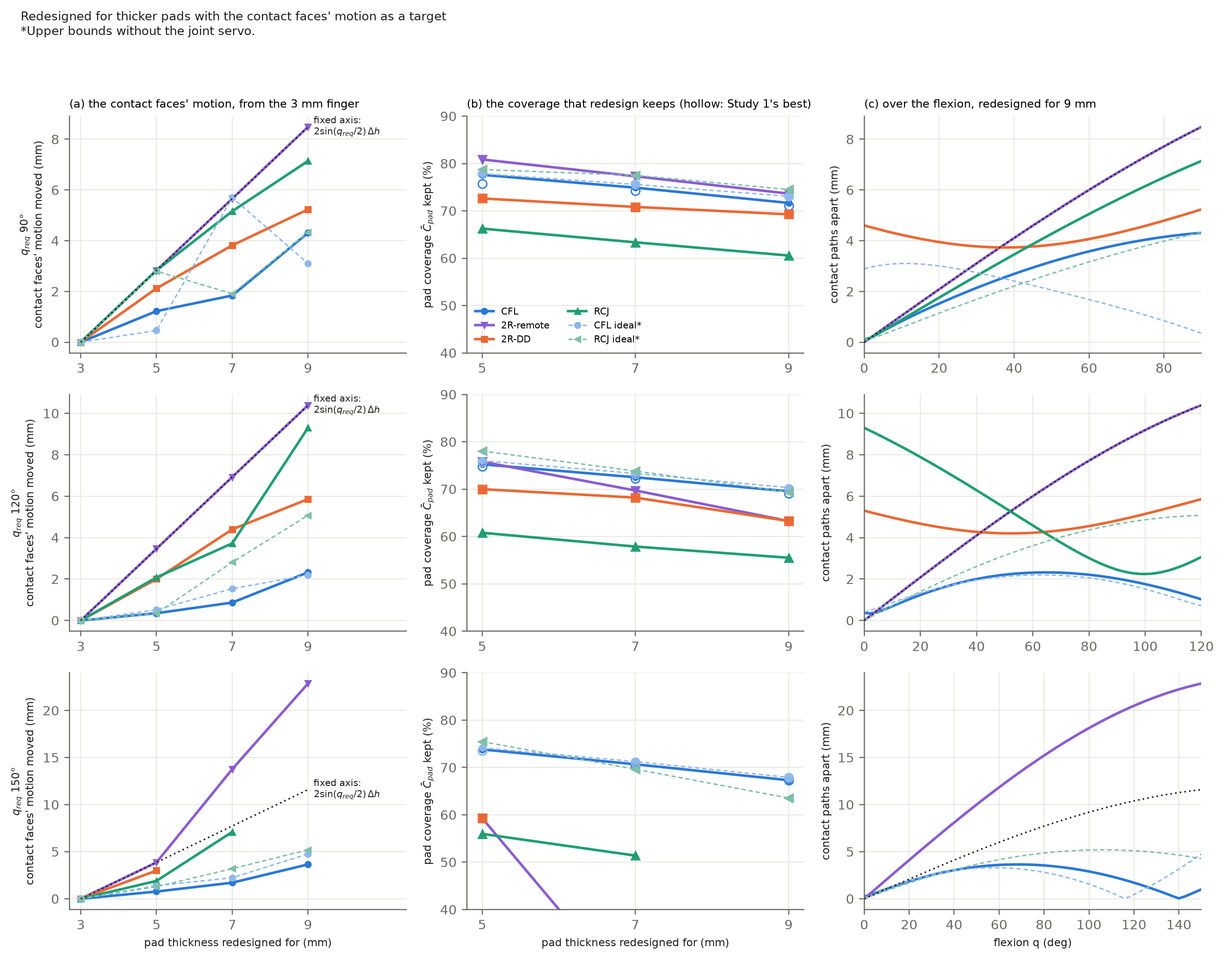
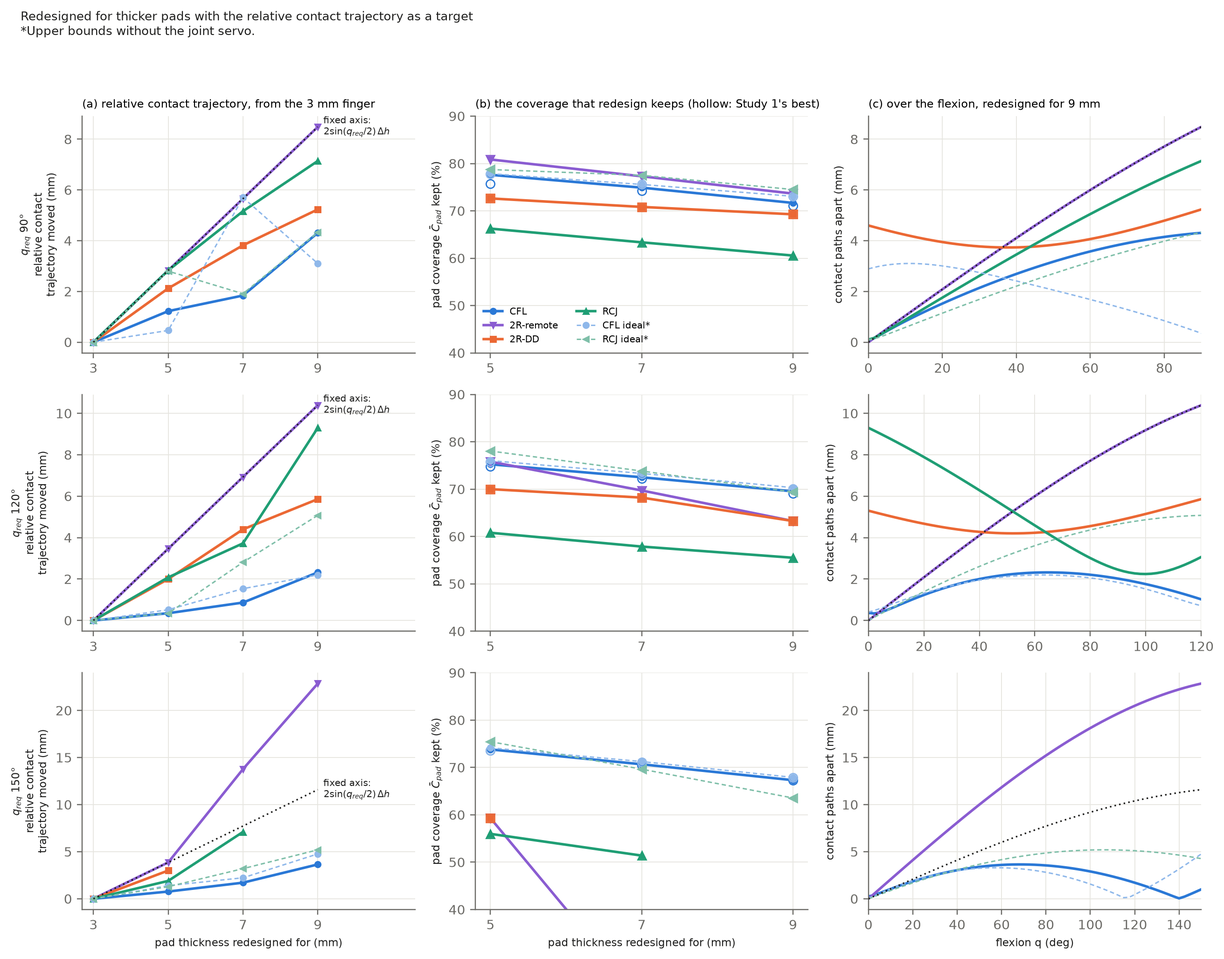
Call D_c's quantity the relative contact trajectory
"Contact-centric kinematics" promised the whole servo-to-contact map, while D_c measures only
the path of the distal contact face seen from the proximal one, over flexion. The new term names
that path; the transmission from servo angle to flexion is stated as excluded and recorded apart.
The SSoT, the Study 2 report and figure, and the docstrings use it; module names stay.

diff --git a/design/scripts/study/study2_morphology_adaptation/figure_redesign.py b/design/scripts/study/study2_morphology_adaptation/figure_redesign.py
@@ -5,7 +5,7 @@
 
 ``study2_redesign_<tag>.png``, one row per required flexion:
 
-- left: how far the contact faces' motion moves when the finger is redesigned
+- left: how far the relative contact trajectory moves when the finger is redesigned
   from 3 mm pads for thicker ones, at the most pad coverage the redesign keeps
   (the front's coverage end), per architecture; the line is what a joint
   turning about a fixed axis must show, ``2 sin(q_req/2) dh``;
@@ -89,7 +89,7 @@ def figure(out: Path, tag: str) -> Path | None:
                    lw=1.1, ls=(0, (1, 2)), zorder=6)
         along.set_ylabel("contact paths apart (mm)", fontsize=7.5)
         along.set_xlim(0, q)
-        change.set_ylabel(f"$q_{{req}}$ {q:g}°\ncontact faces' motion moved (mm)", fontsize=7.5)
+        change.set_ylabel(f"$q_{{req}}$ {q:g}°\nrelative contact\ntrajectory moved (mm)", fontsize=7.5)
         kept.set_ylabel("pad coverage $\\bar C_{pad}$ kept (%)", fontsize=7.5)
         kept.set_ylim(40, 90)
         change.set_xlim(start - 0.3, thick[-1] + 2.6)
@@ -102,11 +102,11 @@ def figure(out: Path, tag: str) -> Path | None:
             if a == len(flexions) - 1:
                 axis.set_xlabel("flexion q (deg)" if axis is along else "pad thickness redesigned for (mm)", fontsize=7.5)
         if a == 0:
-            change.set_title("(a) the contact faces' motion, from the 3 mm finger", fontsize=8, loc="left")
+            change.set_title("(a) relative contact trajectory, from the 3 mm finger", fontsize=8, loc="left")
             kept.set_title("(b) the coverage that redesign keeps (hollow: Study 1's best)", fontsize=8, loc="left")
             kept.legend(fontsize=6.5, frameon=False, ncol=2, loc="lower left")
             along.set_title(f"(c) over the flexion, redesigned for {thick[-1]:g} mm", fontsize=8, loc="left")
-    fig.suptitle("Redesigned for thicker pads with the contact faces' motion as a target\n"
+    fig.suptitle("Redesigned for thicker pads with the relative contact trajectory as a target\n"
                  "*Upper bounds without the joint servo.", fontsize=8.5, color=INK, x=0.02, ha="left", y=1.0,
                  va="bottom")
     fig.tight_layout()

diff --git a/design/core/optimization/analysis/contact_kinematics.py b/design/core/optimization/analysis/contact_kinematics.py
@@ -1,8 +1,9 @@
 """Study 2 (problem formulation A.6.3): a finger redesigned for a thicker
-interface with the contact-centric kinematics as its target.
+interface with the relative contact trajectory as its target.
 
-The contact-centric kinematics of a finger is the motion of its distal contact
-face seen from its proximal contact face. The faces turn against each other by
+The relative contact trajectory of a finger is the path of its distal contact
+face seen from its proximal contact face, as a function of the flexion (not of
+time; the transmission from servo to flexion is not part of it). The faces turn against each other by
 the flexion ``q`` whatever the design, so the path of one point of the distal
 face, taken in the proximal face's frame, is the whole of it
 (:func:`contact_path`). A redesign is searched in the mechanism's own search

diff --git a/design/scripts/study/study2_morphology_adaptation/redesign.py b/design/scripts/study/study2_morphology_adaptation/redesign.py
@@ -1,5 +1,5 @@
 #!/usr/bin/env python3
-"""Study 2: a finger redesigned for a thicker interface, its contact-centric kinematics kept (A.6.3).
+"""Study 2: a finger redesigned for a thicker interface, its relative contact trajectory kept (A.6.3).
 
     python scripts/study/study2_morphology_adaptation/redesign.py [one_finger.yaml] [--resume]
         [--architectures cfl,2r_remote] [--flexions 120] [--output dir]

diff --git a/design/tests/test_study2_contact_kinematics.py b/design/tests/test_study2_contact_kinematics.py
@@ -1,4 +1,4 @@
-"""Study 2: a redesign with the contact-centric kinematics as its target (problem formulation A.6.3)."""
+"""Study 2: a redesign with the relative contact trajectory as its target (problem formulation A.6.3)."""
 
 from __future__ import annotations
 

diff --git a/design/SSoT/problem_formulation.md b/design/SSoT/problem_formulation.md
@@ -395,7 +395,7 @@ $\mathcal F_{\mathrm{static}}$과 $\mathcal F_{\mathrm{motion}}$은 형상 $\mat
 | 관절이 contact interface에서 빼앗는 것을 정하는 관계 | Study 0 (해석) | A.6.0 |
 | 1. 구조가 contact interface를 제한한다 | 구조별 native 설계의 비교, Study 1 | A.6.1, A.6.2 |
 | 2. Interface의 두께와 요구 flexion에 따라 구조가 확보하는 접촉면이 다르다 | Study 1 | A.6.2 |
-| 3. Interface가 두꺼워져도 접촉면의 운동을 지키도록 다시 설계할 수 있는지가 구조마다 다르다 | Study 2 | A.6.3 |
+| 3. Interface가 두꺼워져도 relative contact trajectory를 지키도록 다시 설계할 수 있는지가 구조마다 다르다 | Study 2 | A.6.3 |
 
 ### A.6.0. Study 0: 관절이 pad에서 빼앗는 길이 (해석)
 
@@ -433,13 +433,13 @@ $$
 
 이다. 분모의 둘째 항은 관절 간격이 굽히면 짧아지는 것이고, 셋째 항은 pole이 palmar 쪽에 있으면 두 phalanx 끝이 벌어지는 것이다. 필요한 것보다 깊은 pole($z>t$)은 $G$를 줄이지 못하고 분모만 키운다. 이 조건 밖의 설계에서는 $X$, 덮는 거리, 굽힌 윤곽을 pole과 pad의 치수로 직접 계산한다.
 
-**명제 4 (접촉면에서 본 운동).** Contact face를 기준으로 본 pole의 위치(두 성분 모두)를 $\mathbf p(q)$라 하면, contact face 위의 점은 $\mathbf c(q)=\mathbf p+R_q(\mathbf c_0-\mathbf p)$로 움직인다. 두 손가락의 pole이 contact face에 대해 $\Delta\mathbf p(q)$만큼 다르면
+**명제 4 (relative contact trajectory).** Contact face를 기준으로 본 pole의 위치(두 성분 모두)를 $\mathbf p(q)$라 하면, contact face 위의 점은 $\mathbf c(q)=\mathbf p+R_q(\mathbf c_0-\mathbf p)$로 움직인다. 두 손가락의 pole이 contact face에 대해 $\Delta\mathbf p(q)$만큼 다르면
 
 $$
 \boxed{\;\|\Delta\mathbf c(q)\|=2\sin\frac{q}{2}\,\|\Delta\mathbf p(q)\|\;}
 $$
 
-이다. 기준 자세에서 두 contact face의 상대 위치가 같을 때, 접촉면에서 본 운동이 같을 필요충분조건은 $\mathbf p(q)$가 모든 $q$에서 같은 것이다(깊이 $\tau$만이 아니라 pole의 $x$ 좌표도). 그때 같은 pad를 같은 자리에 그대로 실을 수 있다(명제 1의 $m(q)$가 같다).
+이다. 기준 자세에서 두 contact face의 상대 위치가 같을 때, relative contact trajectory가 같을 필요충분조건은 $\mathbf p(q)$가 모든 $q$에서 같은 것이다(깊이 $\tau$만이 아니라 pole의 $x$ 좌표도). 그때 같은 pad를 같은 자리에 그대로 실을 수 있다(명제 1의 $m(q)$가 같다).
 
 **구조는 $z(q)$, $P_x(q)$, $d$로 들어간다.**
 
@@ -457,7 +457,7 @@ $$
 - H1 (경험적 가설). Coverage를 최대화한 설계에서는 pad끼리의 접촉이 자주 활성 제약이다: 설계의 pad로 계산한 $\min_q m(q)$가 0에 가깝다. 정리가 아니다. Actuator의 자리, pad 길이의 하한, 다른 제약이 먼저 걸리면 틈이 남는다. 성립한 설계의 수와 벗어난 설계를 보고한다. 대칭 법칙은 그 설계의 $G$에 대한 추정으로 함께 보고한다.
 - P2 (계산의 일치). 최적 설계의 $\bar C_{\mathrm{pad}}$는 pole의 경로, pad의 치수, phalanx 구조의 끝, 기준 자세의 distal link 선으로 직접 계산한 값과 같다(명제 3).
 - P3. 고정 축에서 두 pad가 고르게 놓인 설계는 $G=2(d+h)\tan(q_{\mathrm{req}}/2)$를 따른다. 요구 flexion과 두께가 커지면 pad 길이가 이 식대로 줄어든다. $q^\ast<q_{\mathrm{req}}$인 설계에서는 $G_{\mathrm{sym}}$이 $q_{\mathrm{req}}$에 따라 커지지 않는다.
-- P4. 두 pad의 깊이가 같은 고정 축 손가락을 contact face가 축에서 $\delta=\Delta h-\Delta d$만큼 멀어지도록 다시 설계하면($\Delta d$: 장착 깊이를 줄인 양), 접촉면에서 본 운동은 $2\sin(q_{\mathrm{req}}/2)\,|\delta|$ 이상 바뀐다. 등호는 축이 contact face에 대해 $x$ 방향으로 움직이지 않을 때이다. 이것은 어떤 다시 설계로도 넘을 수 없는 하한이고, $r$이 고정된 구름 접촉에서도 같은 형태이다. Pole을 옮겨 $\mathbf p(q)$를 유지하는 구조는 접촉면에서 본 운동과 pad를 함께 유지한다(명제 4).
+- P4. 두 pad의 깊이가 같은 고정 축 손가락을 contact face가 축에서 $\delta=\Delta h-\Delta d$만큼 멀어지도록 다시 설계하면($\Delta d$: 장착 깊이를 줄인 양), relative contact trajectory는 $2\sin(q_{\mathrm{req}}/2)\,|\delta|$ 이상 바뀐다. 등호는 축이 contact face에 대해 $x$ 방향으로 움직이지 않을 때이다. 이것은 어떤 다시 설계로도 넘을 수 없는 하한이고, $r$이 고정된 구름 접촉에서도 같은 형태이다. Pole을 옮겨 $\mathbf p(q)$를 유지하는 구조는 relative contact trajectory와 pad를 함께 유지한다(명제 4).
 - 이 모델에서 가장 좋은 관절은 contact face 위의 점을 중심으로 도는 관절이다($\tau=0$, $G=0$).
 
 ### A.6.1. 공통 설정
@@ -535,13 +535,13 @@ $$
 
 2026-11-20까지 Study 1은 native 설계에 module 목록 $\mathcal C_{\mathrm{cat}}$을 이 규칙으로 달아 수용 여부를 세는 실험이었다(`report/study1/`). 그 결과는 보조 자료로 남긴다.
 
-### A.6.3. Study 2: interface가 바뀌어도 접촉면의 운동을 지킬 수 있는가
+### A.6.3. Study 2: interface가 바뀌어도 relative contact trajectory를 지킬 수 있는가
 
-Study 1은 접촉면을 얼마나 확보하는가를 묻고, Study 2는 그 접촉면의 운동을 묻는다. 더 두꺼운 contact interface를 쓰려고 손가락을 다시 설계할 때, 접촉면에서 본 운동(contact-centric kinematics)을 기존 손가락과 같게 유지할 수 있는가, 그리고 그때 coverage는 얼마나 남는가. Contact interface를 독립 변수로 다루려면 접촉이 일어나는 면의 운동이 유지되어야 하고, 뼈대의 운동은 그 수단이다. 이 실험에서는 접촉면의 운동이 처음으로 설계의 목표가 된다. Study 0의 P4가 결과를 예측한다.
+Study 1은 접촉면을 얼마나 확보하는가를 묻고, Study 2는 그 접촉면이 서로에 대해 어떻게 움직이는지, 곧 relative contact trajectory를 묻는다. 더 두꺼운 contact interface를 쓰려고 손가락을 다시 설계할 때, relative contact trajectory를 기존 손가락과 같게 유지할 수 있는가, 그리고 그때 coverage는 얼마나 남는가. Contact interface를 독립 변수로 다루려면 접촉이 일어나는 면의 운동이 유지되어야 하고, 뼈대의 운동은 그 수단이다. 이 실험에서는 relative contact trajectory가 처음으로 설계의 목표가 된다. Study 0의 P4가 결과를 예측한다.
 
 **기준 손가락과 새 interface.** 구조 $K$와 요구 flexion $q_{\mathrm{req}}$마다, Study 1에서 가장 얇은 두께 $h_0$에 최적화한 설계 $M_0=M^\star_K(h_0)$를 기준 손가락으로 둔다(본 실험 $h_0=3$ mm). 새 interface는 Study 1의 격자에서 더 두꺼운 두께 $h>h_0$이다. 얇은 쪽으로 바꾸는 경우는 다루지 않는다. 기존 손가락에 그대로 달 수 있어 다시 설계할 이유가 없기 때문이다.
 
-**접촉면에서 본 운동의 변화.** Proximal contact face의 직선을 기준으로, distal contact face 위의 손끝 아래 점 $\mathbf c(M,q)$의 경로를 잰다. 두 face는 어느 설계에서나 $q$만큼 돌므로, 한 점의 경로가 face의 자세를 정한다.
+**Relative contact trajectory와 그 변화.** Proximal contact face의 직선을 기준으로 잰, distal contact face 위의 손끝 아래 점 $\mathbf c(M,q)$의 경로를 relative contact trajectory라 한다. 두 face는 어느 설계에서나 $q$만큼 돌므로, 한 점의 경로가 face의 자세를 정한다. 이 경로는 flexion $q$로 매개화되며 시간의 함수가 아니다. Servo 각에서 $q$로 가는 전달(속도와 MA)은 포함하지 않는다. 그것은 mechanism마다 다르며 재설계로 바뀔 수 있고, 따로 기록한다.
 
 $$
 D_c(M,M_0)=\frac{1}{L_f}\max_{q\in[0,\,q_{\mathrm{req}}]}\big\|\mathbf c(M,q)-\mathbf c(M_0,q)\big\|
@@ -560,14 +560,14 @@ $$
 $$
 
 - 탐색 공간, 제약, 장착 규칙은 Study 1과 같다(가장 얕은 깊이, spacer 없음). 목적함수의 coverage도 Study 1의 원기둥 기준 $\bar C_{\mathrm{pad}}$ 그대로이다.
-- Coverage의 하한은 두지 않는다. 결과는 front이며, 접촉면의 운동을 얼마나 지키면 coverage가 얼마나 남는지를 그대로 보인다.
+- Coverage의 하한은 두지 않는다. 결과는 front이며, relative contact trajectory를 얼마나 지키면 coverage가 얼마나 남는지를 그대로 보인다.
 - Study 1의 설계 $M^\star_K(h)$는 이 탐색의 초기해이므로 front의 coverage 쪽 끝은 $\bar C^\star_K(h)$보다 낮지 않다. 더 높게 나오면 Study 1의 탐색이 최적에 못 미친 것이므로 그 값을 함께 보고한다.
 
 **보고.** 구조, $q_{\mathrm{req}}$, 두께마다
 - front $\{(D_c,\bar C_{\mathrm{pad}})\}$;
 - 변화가 가장 작은 설계의 $D_c^{\min}$과 그 coverage, coverage가 가장 높은 설계의 coverage와 그 $D_c$;
 - 고정 축의 하한 $2\sin(q_{\mathrm{req}}/2)\,(h-h_0)/L_f$ (A.6.0 P4);
-- Study 1의 설계 $M^\star_K(h)$의 $D_c$(접촉면의 운동을 목표로 주지 않았을 때의 값);
+- Study 1의 설계 $M^\star_K(h)$의 $D_c$(relative contact trajectory를 목표로 주지 않았을 때의 값);
 - 뼈대의 변화 $D_s$, pad 길이, $q_{\max}$, $MA_{\mathrm{wc}}$.
 
 결과는 seed를 바꿔 반복해 front를 합친다.
@@ -575,9 +575,9 @@ $$
 **확인하는 것 (P4).**
 - 고정 축(2R-remote)은 어떤 다시 설계로도 $D_c$가 하한보다 작아지지 않는다. Front는 그 하한의 한 점으로 모인다.
 - 2R-DD와 RCJ는 장착 깊이를 줄인 만큼만 하한보다 작다.
-- CFL은 하한보다 훨씬 작은 $D_c$로 다시 설계되며, 그때 coverage는 $\bar C^\star_K(h)$에 가깝다(접촉면에서 본 운동을 지키는 것과 pad 길이를 지키는 것은 같은 조건이므로). 두께가 늘면서 이것이 어디까지 성립하는지가 결과이다.
+- CFL은 하한보다 훨씬 작은 $D_c$로 다시 설계되며, 그때 coverage는 $\bar C^\star_K(h)$에 가깝다(relative contact trajectory를 지키는 것과 pad 길이를 지키는 것은 같은 조건이므로). 두께가 늘면서 이것이 어디까지 성립하는지가 결과이다.
 
-**해석.** $D_c^{\min}$이 작고 그때의 coverage가 높은 구조는, interface가 두꺼워져도 접촉면의 운동과 접촉면의 양을 함께 지키도록 다시 설계할 수 있다. 이때 바뀌는 것은 mechanism 내부와 뼈대의 운동 $D_s$이다. Front가 하한의 한 점에 모이는 구조는 interface가 두꺼워지면 접촉면의 운동이 반드시 바뀐다. 해를 찾지 못했다는 것은 주어진 탐색 범위와 예산 안에서 찾지 못했다는 뜻이며, $D_c^{\min}$은 찾은 값이지 증명된 최솟값이 아니다. 이 결과는 2차원 측면 모델, 두 pad의 두께가 같은 경우, 장착 규칙(spacer 없음) 안에서의 비교이다. Contact face의 위치를 기준으로 두고 얇은 pad를 그만큼 깊이 달면 어느 구조에서나 접촉면에서 본 운동이 유지되지만, 그 경우 손가락은 가장 두꺼운 interface에 맞춰 미리 설계해야 한다. 이 방식은 다루지 않는다.
+**해석.** $D_c^{\min}$이 작고 그때의 coverage가 높은 구조는, interface가 두꺼워져도 relative contact trajectory와 접촉면의 양을 함께 지키도록 다시 설계할 수 있다. 이때 바뀌는 것은 mechanism 내부와 뼈대의 운동 $D_s$이다. Front가 하한의 한 점에 모이는 구조는 interface가 두꺼워지면 relative contact trajectory가 반드시 바뀐다. 해를 찾지 못했다는 것은 주어진 탐색 범위와 예산 안에서 찾지 못했다는 뜻이며, $D_c^{\min}$은 찾은 값이지 증명된 최솟값이 아니다. 이 결과는 2차원 측면 모델, 두 pad의 두께가 같은 경우, 장착 규칙(spacer 없음) 안에서의 비교이다. Contact face의 위치를 기준으로 두고 얇은 pad를 그만큼 깊이 달면 어느 구조에서나 relative contact trajectory가 유지되지만, 그 경우 손가락은 가장 두꺼운 interface에 맞춰 미리 설계해야 한다. 이 방식은 다루지 않는다.
 
 ### A.6.4. Study에서 다루지 않는 것
 
@@ -631,7 +631,7 @@ $$
 | $G$, $G_{\mathrm{sym}}$, $q^\ast$ | 관절 간격(기준 자세에서 두 pad의 관절 쪽 끝 사이 길이), 대칭 clearance 법칙이 주는 값, 그것을 정하는 임계 flexion |
 | $m(q)$ | 자세 $q$에서 두 pad의 정확한 clearance: 분리축에서의 틈의 최댓값(0: 맞닿음, 음수: 겹침) (Study 0, 명제 1) |
 | $\mathbf p(q)$, $\mathbf c(M,q)$ | Contact face를 기준으로 본 pole의 위치, proximal contact face를 기준으로 본 distal contact face 위의 점의 경로 |
-| $D_c(M,M')$, $D_s(M,M')$ | 두 손가락의 접촉면에서 본 운동의 차이, 뼈대(손끝) 운동의 차이. $[0,q_{\mathrm{req}}]$에서의 최대 거리를 $L_f$로 나눔 (Study 2) |
+| $D_c(M,M')$, $D_s(M,M')$ | 두 손가락의 relative contact trajectory의 차이, 뼈대(손끝) 운동의 차이. $[0,q_{\mathrm{req}}]$에서의 최대 거리를 $L_f$로 나눔 (Study 2) |
 | $M_0$, $h_0$, $D_c^{\min}$ | Study 2의 기준 손가락(가장 얇은 두께 $h_0$의 Study 1 설계)과, 더 두꺼운 두께에서 다시 설계해 찾은 가장 작은 $D_c$ |
 
 **Optimization.** 요구사항, 허용 범위, 목적함수와 제약.

diff --git a/design/SSoT/research-objective.md b/design/SSoT/research-objective.md
@@ -170,13 +170,13 @@ CoDe aims to enable contact-interface variation while preserving the underlying 
 
 For controlled contact-interface experiments, the following should remain fixed whenever possible:
 
-- The contact-centric kinematics: the motion of one contact face seen from the other over the flexion. This is the kinematic target of a contact-centric hand; what a policy and an object meet is the contact face, not the skeleton.
+- The relative contact trajectory: the path of the distal contact face seen from the proximal one, as a function of flexion (its change is D_c, `problem_formulation.md` A.6.3). It excludes the transmission from servo angle to flexion, which is recorded separately. This is the kinematic target of a contact-centric hand; what a policy and an object meet is the contact face, not the skeleton.
 - Structural finger morphology and link geometry.
 - Articulation kinematics and joint configuration.
 - Actuator placement and transmission architecture.
 - Contact-module mounting references.
 
-When these cannot all be kept (an interface thicker than the finger was designed for asks for a redesign), the contact-centric kinematics has priority over the skeleton's: the mechanism's internal dimensions may change to keep the contact faces moving as before (`problem_formulation.md` A.6.0, A.6.3).
+When these cannot all be kept (an interface thicker than the finger was designed for asks for a redesign), the relative contact trajectory has priority over the skeleton's: the mechanism's internal dimensions may change to keep the contact faces moving as before (`problem_formulation.md` A.6.0, A.6.3).
 
 The following are intentionally variable:
 
@@ -185,7 +185,7 @@ The following are intentionally variable:
 - Tactile sensing configuration.
 - Contact location, distribution and surface response.
 
-Preserving the contact-centric kinematics does not imply preserving contact mechanics or actuator-side contact responses: compliance, friction, sensing and the contact's location on the face change with the interface, which is precisely what the platform is designed to investigate. What should not change with them is where the contact faces are and how they move. With identical rigid-body kinematics, a thicker interface moves the contact face away from the point the phalanx turns about and so changes the contact-point Jacobian; that change is an effect of the hand's geometry, not of the interface under study, and is what a redesign should remove.
+Preserving the relative contact trajectory does not imply preserving contact mechanics or actuator-side contact responses: compliance, friction, sensing and the contact's location on the face change with the interface, which is precisely what the platform is designed to investigate. What should not change with them is where the contact faces are and how they move. With identical rigid-body kinematics, a thicker interface moves the contact face away from the point the phalanx turns about and so changes the contact-point Jacobian; that change is an effect of the hand's geometry, not of the interface under study, and is what a redesign should remove.
 
 The objective is to isolate contact-interface variation from unnecessary changes to the underlying hand embodiment, not to make contact behavior invariant.
 
@@ -212,11 +212,11 @@ The project's experiments should provide evidence for the central research objec
 
 1. **Architecture limits the contact interface.** Under one set of requirements (the same finger size, actuators, required flexion and collision rules), each architecture's best design leaves a different share of the finger usable for contact, and the difference grows with the required flexion.
 2. **The contact surface an architecture keeps depends on the interface's thickness and the required flexion.** With the finger optimized for each pad thickness and each required flexion, the best pad coverage differs by architecture, and so does how fast it falls as the pads get thicker or the flexion deeper.
-3. **The contact faces' motion can be kept when the interface changes, with the contact surface kept too.** The motion of one contact face seen from the other is what an interface experiment should hold; the skeleton's motion is a means to it. When a finger is redesigned for a thicker interface with that motion as its target, a joint turning about a fixed axis cannot keep it, whatever the redesign (a closed-form lower bound); the CFL moves the point it turns about and keeps it, at a pad coverage near the best for that interface, within a range the study measures. This is the claim the project makes for CoDe.
+3. **The relative contact trajectory can be kept when the interface changes, with the contact surface kept too.** The relative contact trajectory is what an interface experiment should hold; the skeleton's motion is a means to it. When a finger is redesigned for a thicker interface with that motion as its target, a joint turning about a fixed axis cannot keep it, whatever the redesign (a closed-form lower bound); the CFL moves the point it turns about and keeps it, at a pad coverage near the best for that interface, within a range the study measures. This is the claim the project makes for CoDe.
 
 **What the learning-based studies must test** (supporting question 3; Section 8):
 
-4. **Keeping the contact faces' motion keeps an interface measurement interpretable** (hypothesis, Study 3C). If an interface experiment is run on a hand adapted to the interface in two ways, one that keeps the contact-centric kinematics (claim 3) and one that does not, the measured effect of the interface differs between them. Support: the effect measured on the unadapted path departs from the redesigned path's, and the departure grows with the change in contact-face motion. Refutation: the two paths measure the same effect within the stated precision, in which case keeping the contact faces' motion is not what an interface experiment needs, and that is reported.
+4. **Keeping the relative contact trajectory keeps an interface measurement interpretable** (hypothesis, Study 3C). If an interface experiment is run on a hand adapted to the interface in two ways, one that keeps the relative contact trajectory (claim 3) and one that does not, the measured effect of the interface differs between them. Support: the effect measured on the unadapted path departs from the redesigned path's, and the departure grows with the change in contact-face motion. Refutation: the two paths measure the same effect within the stated precision, in which case keeping the relative contact trajectory is not what an interface experiment needs, and that is reported.
 
 A geometric account (Study 0) gives the relation behind claims 1 to 3 (where the phalanx turns about, and how deep the pads sit, set what the joint takes from the pads); the optimization studies check its predictions.
 
@@ -307,7 +307,7 @@ The learning-based studies are numbered 3A–3D, the same names in this file, in
 
 Throughout, J(π, H, C, S) is the task's pre-registered performance metric (for the cube-rotation task, goals reached per episode on a fixed goal sequence) of policy π on hand H with interface C under contact model S; arguments that do not vary are dropped.
 
-**Roles and order.** Study 3C is the learning-based evidence specific to CoDe: it links the design studies' contact-centric kinematics (claims 3 and 4) to interface experiments. Study 3A changes only an interface that any hand could exchange (a profile inside the same pad envelope), so it demonstrates the experimental platform and pipeline, not the need for CoDe (Section 8.6). Study 3B checks that 3A's and 3C's interface effects are not artifacts of one contact model. Order: 3A, then 3C, then 3B on the policies of both, then 3D.
+**Roles and order.** Study 3C is the learning-based evidence specific to CoDe: it links the design studies' relative contact trajectory (claims 3 and 4) to interface experiments. Study 3A changes only an interface that any hand could exchange (a profile inside the same pad envelope), so it demonstrates the experimental platform and pipeline, not the need for CoDe (Section 8.6). Study 3B checks that 3A's and 3C's interface effects are not artifacts of one contact model. Order: 3A, then 3C, then 3B on the policies of both, then 3D.
 
 **Study 3A — Contact-interface A/B test and transfer matrix** (RQ3). Keep the CoDe embodiment fixed and evaluate multiple contact interfaces with a common manipulation protocol, in two complementary ways:
 
@@ -322,7 +322,7 @@ Measure performance differences, sensitivity, adaptation, generalization and con
 
 *Target evidence:* whether a measured interface effect survives a change of the simulated contact model.
 
-**Study 3C — Embodiment-dependent confounding of an interface effect** (RQ3, Section 2.3). Make the same interface change C₀ → C₁ (a thin interface to a thick one) along two morphology-adaptation paths: the redesigned path R keeps the contact-centric kinematics (CoDe, Study 2's redesign); the unadapted path U lets it change with the interface (the same finger with thicker interfaces, then a fixed-axis architecture at its own best redesign). With the same task and protocol, each path measures
+**Study 3C — Embodiment-dependent confounding of an interface effect** (RQ3, Section 2.3). Make the same interface change C₀ → C₁ (a thin interface to a thick one) along two morphology-adaptation paths: the redesigned path R keeps the relative contact trajectory (CoDe, Study 2's redesign); the unadapted path U lets it change with the interface (the same finger with thicker interfaces, then a fixed-axis architecture at its own best redesign). With the same task and protocol, each path measures
 
 ΔJ_R = J(H_R,1, C₁) − J(H_R,0, C₀),  ΔJ_U = J(H_U,1, C₁) − J(H_U,0, C₀),
 

diff --git a/design/SSoT/north-star.md b/design/SSoT/north-star.md
@@ -15,23 +15,27 @@ The SSoT has four files, each with one job. When they disagree, the higher one w
 
 RSS 2027 (Athens, July 6–11). Extended abstract due 2026-12-04, stage-1 decision 2027-02-05, final paper due 2027-04-16 (dates from the call for papers; re-check on roboticsconference.org before each deadline).
 
+## Terms
+
+**Relative contact trajectory:** the path of the distal contact face seen from the proximal contact face, as a function of flexion q (not of time). D_c is its largest change between two fingers over the required flexion, per finger length. It does not include the transmission from servo angle to flexion. (Replaced "contact-centric kinematics" on 2026-11-21, which promised the servo-to-contact map too.)
+
 ## Problem
 
 Contact is central to dexterous manipulation, and the contact interface (its geometry, size, compliance and sensing) sets that contact. Research hands use servos for maintainability, and the servo bodies take up the space inside the finger.
 
 - **P1 — Space.** Servos and joints compete with the contact interface for the same space, so a large or thick interface costs either range of motion or contact surface.
-- **P2 — Redesign.** Redesigning the finger for a different interface changes how its contact faces move relative to each other. For a joint turning about a fixed axis this cannot be avoided when the interface is moved to its own best depth: a thickness change Δh moves the faces' relative path by at least 2 sin(q/2)·Δh at flexion q.
+- **P2 — Redesign.** Redesigning the finger for a different interface changes its relative contact trajectory (the path of the distal contact face seen from the proximal one, as a function of flexion). For a joint turning about a fixed axis this cannot be avoided when the interface is moved to its own best depth: a thickness change Δh moves the relative contact trajectory by at least 2 sin(q/2)·Δh at flexion q.
 - **P3 — Measurement.** So when interfaces are compared in manipulation, the difference cannot be attributed to the interface alone: the hand's motion changed with it.
 
 ## Goal
 
-A servo-driven finger that, as the interface's size changes, keeps range of motion and contact surface together (P1) and changes its contact faces' relative path little when re-optimized (P2), so that the contact interface can be used as an independent variable in manipulation research (P3).
+A servo-driven finger that, as the interface's size changes, keeps range of motion and contact surface together (P1) and changes its relative contact trajectory little when re-optimized (P2), so that the contact interface can be used as an independent variable in manipulation research (P3).
 
 ## Approach (CoDe)
 
 - **Remote actuation:** the servo leaves the joint and drives it through a linkage. → P1
 - **Polycentric articulation (the CFL):** the point the distal phalanx turns about moves with flexion. → P1, P2
-- **The contact faces' relative path as the redesign target**, measured by D_c (`problem_formulation.md` A.6.3). → P2, P3
+- **The relative contact trajectory as the redesign target**, its change measured by D_c (`problem_formulation.md` A.6.3). → P2, P3
 
 ## Contributions and status
 
@@ -39,22 +43,21 @@ A contribution is a claim to be tested, not a result to be secured (`research-ob
 
 | | Claim | Evidence | Status (2026-11-21) |
 |---|---|---|---|
-| C1 | A fixed-axis joint cannot keep the contact faces' relative path when an interface is moved to a different depth: the lower bound 2 sin(q/2)·Δh | Study 0 | Derived; 2R-remote's redesigns sit on the bound at 90° and 120° |
+| C1 | A fixed-axis joint cannot keep the relative contact trajectory when an interface is moved to a different depth: the lower bound 2 sin(q/2)·Δh | Study 0 | Derived; 2R-remote's redesigns sit on the bound at 90° and 120° |
 | C2 | The CFL finger keeps more contact surface than a servo-at-joint finger (2R-DD) in all 12 conditions (4 thicknesses × 3 flexions, +2.4 to +14.6 points), and is the only physical architecture with a usable design in all 12 | Study 1 | Shown in the 2D side model. Against 2R-remote the ranking depends on flexion and thickness, and is reported as such |
-| C3 | Redesigned for a thicker interface, the CFL changes its contact faces' relative path least among the four physical architectures in all 9 conditions (10–51% of the fixed-axis bound), at near-best coverage | Study 2 | Shown in the 2D side model |
-| C4 | The change in the contact faces' relative path alters learning-based interface evaluations | Study 3C | **Open.** Not yet designed in detail |
+| C3 | Redesigned for a thicker interface, the CFL changes its relative contact trajectory least among the four physical architectures in all 9 conditions (10–51% of the fixed-axis bound), at near-best coverage | Study 2 | Shown in the 2D side model |
+| C4 | The change in the relative contact trajectory alters learning-based interface evaluations | Study 3C | **Open.** Not yet designed in detail |
 | C5 | Interfaces are exchanged on one physical hand | Hardware | **Open.** Extent undecided |
 
 Supporting, not contributions: Study 3A (one hand, one learning pipeline, interfaces compared; pilot done, main experiment running) and Study 3B (contact-model sensitivity; pre-registered).
 
 ## Not claimed
 
-A hand that manipulates better than others; a best contact interface; that the CFL beats every remote-actuated design everywhere; that keeping the relative path preserves a policy's performance; simulated compliant or tactile interfaces; physical accuracy of a contact model without validation.
+A hand that manipulates better than others; a best contact interface; that the CFL beats every remote-actuated design everywhere; that keeping the relative contact trajectory preserves a policy's performance; simulated compliant or tactile interfaces; physical accuracy of a contact model without validation.
 
 ## Open decisions
 
 1. **The spacer baseline.** A finger designed once for the thickest interface, with thinner ones raised on spacers, has D_c = 0 on any architecture. The honest comparison is then the trade-off between D_c and coverage, with the spacer design at one end. Whether C1–C3 are restated in that form is undecided.
-2. **Term.** "Contact-centric kinematics" promises more than D_c measures (the relative path over flexion, not the servo-to-contact map). "Relative contact trajectory" is the candidate replacement.
-3. **How much the transmission changes under redesign** (servo angle to flexion, mechanical advantage), and whether the redesign target should include it. Not yet measured.
-4. **Hardware scope** for the final paper (C5).
-5. **"Interfaces concentrate on distal phalanges"** is not established (counterexamples exist); until a survey of hands supports it, the motivation rests on P1.
+2. **How much the transmission changes under redesign** (servo angle to flexion, mechanical advantage), and whether the redesign target should include it. Not yet measured.
+3. **Hardware scope** for the final paper (C5).
+4. **"Interfaces concentrate on distal phalanges"** is not established (counterexamples exist); until a survey of hands supports it, the motivation rests on P1.

diff --git a/docs/decisions.md b/docs/decisions.md
@@ -206,6 +206,7 @@
 - 2026-11-21: Study 3의 방향을 SSoT 기준으로 다시 잡음. (1) Study 3C(고정된 정책의 성능을 올리도록 contact 형상을 최적화)는 폐기: SSoT 8.7("make contact interfaces easier to study", 성능 개선이 목표가 아님)과 맞지 않고, 개선이 나와도 원인이 CoDe와 무관("덜 학습된 정책" 또는 "누구에게나 쉬운 형상"). 같은 이유로 "D_c를 지키면 정책이 전이된다"를 CoDe의 성과로 읽지 않음(SSoT 8.6). (2) 논문의 기여는 contact 효과의 발견이 아니라 측정의 타당성(contact 효과를 kinematics 변화와 섞지 않고 잼)으로 SSoT 1절에 명시. "contact를 바꾸면 정책이 달라지는 건 당연하다"는 비판은 이 틀에서 답함. (3) SSoT 8.4에 Study A′(embodiment confound의 크기)를 추가: 같은 interface 변화(얇은 → 두꺼운)를 D_c를 지키도록 재설계한 손과 D_c가 바뀌는 손에서 각각 측정하고, 두 효과의 차이를 kinematics에서 온 confound로 봄. 방향은 가정하지 않음. (4) SSoT 8.6에 "contact 형상을 특정 정책의 성능에 맞춰 최적화하고 CoDe의 근거로 제시하지 않음" 추가. (5) 기존 실험의 위치: 3A = SSoT Study B(고정된 정책)·C(정책 × contact 행렬), 3B = Study D(sim-to-sim). 둘 다 논문 실험으로 다시 설계함(본 항목 이후 기록).
 - 2026-11-21: 이름 정리. SSoT 8.4의 학습 실험을 Study 3A–3D로 통일하고(문서, `sim/`, `report/study3` 모두 같은 이름), 예전 글자 A–D와 A′는 폐기. 3A = contact interface A/B 시험과 전이 행렬(예전 B·C), 3B = contact-model 민감도(예전 D; point 대 hydroelastic), 3C = embodiment confound(예전 A′; 경로 R(재설계)·U(재설계 없음), Δ_interaction = ΔJ_R − ΔJ_U, 후보 측정값으로만 주장), 3D = 구조별 manipulation 접근성(예전 A, 계획). 폐기한 "고정된 정책을 위한 형상 최적화"는 이름 없이 폐기로만 기록. SSoT 1절 문장은 "while minimizing confounding changes in the underlying robot morphology and articulation kinematics"로 다듬음(interface 자체가 바꾸는 contact point·법선·Jacobian은 의도된 효과).
 - 2026-11-21: SSoT를 네 파일로 나눔(위가 우선): `north-star.md` = publication goal(RSS 2027; 문제 P1–P3, 접근, 기여 C1–C5와 상태, 미결정 사항), `research-objective.md` = 실험 설계, `problem_formulation.md` = 수학과 변수 이름, `code_formulation.md` = 구현. research-objective 1절의 기여 목표 초안(T1–T4)은 north-star로 옮기고 지움. research-objective에는 리뷰 반영분도 함께 들어감: 6절 주장 4(가설, 3C), 7절 실험 규율(사전 지정, seed 수, 지표 검증), 8절 범위·역할과 순서(3A → 3C → 3B)·RQ4 현황. 미결정으로 north-star에 적어 둔 것: spacer 기준(가장 두꺼운 interface로 한 번 설계하면 어느 구조든 D_c = 0), 용어(relative contact trajectory), 재설계 시 전달비 변화, 하드웨어 범위, 'interface가 distal에 몰린다'의 근거.
+- 2026-11-21: 용어 변경: "contact-centric kinematics"(접촉면에서 본 운동) → **relative contact trajectory**. 정의는 그대로: proximal contact face에서 본 distal contact face 위 점의 경로, flexion q로 매개화(시간 함수 아님); D_c는 그 최대 변화를 L_f로 나눈 값. 바꾼 이유: "kinematics"는 servo 각에서 접촉점까지의 관계 전체(전달비, Jacobian)를 약속하는데 D_c는 그것을 재지 않음. 전달(servo 각 → q, MA)은 따로 기록함을 SSoT에 명시. 바꾼 곳: SSoT 네 파일, Study 2 보고서와 그림(다시 그림), `contact_kinematics.py`·`redesign.py`·`one_finger.yaml`·테스트의 docstring. 모듈과 함수 이름은 그대로(import 호환). 과거 기록(이 파일의 이전 항목, `paper/`)은 고치지 않음.
 - 2026-11-21: 3B′(action EMA α 0.1, VBD 재생) 사전 판정: 해석 불가. VBD loop 유효 비율 최소 0.75(20칸 중 3칸만 ≥ 0.95), 떨어뜨림 0.54–1.0(MJWarp 0.03–0.25). 기준은 사후에 낮추지 않음. 첫 goal 성공은 두 solver 모두 0.92–1.0이라 주 지표로도 쓸모가 없었음(천장). VBD 재생은 pilot의 음성 결과로 남기고 3B는 point 대 hydroelastic로 바꿈.
 - 2026-11-21: α 0.1 정책의 goal 수(flat s0 episode당 28.2)를 검증(`scripts/study3/goal_audit.py`, `report/study3/tables/goal_audit.csv`). 성공은 오차가 ε(0.2 rad = 11.46°) 아래로 내려간 첫 step에 판정되고 곧바로 다음 goal을 뽑으므로, 최소 간격 20° < 2ε = 22.9°이면 두 goal의 성공 영역이 겹쳐 회전 없이 성공할 수 있음. 측정(추적한 16 episode, MJWarp in-domain과 교차 20칸): goal을 뽑는 순간 cube가 이미 새 goal의 영역 안에 있던 비율 0–5%(공짜 goal의 상한), goal 사이 회전량 중앙값 15–24°, 2° 미만 회전 0–4%, 2 step 안에 다음 goal 0–22%. 겹침을 없앤 정의로 같은 정책을 재평가(256 episode, eval seed 1000): 최소 간격 25°(ε 그대로, 2ε보다 2.1° 큼)에서 goal 수가 원래의 79–99%(flat s0 28.2 → 24.3; 이 값은 goal 분포도 바뀌므로 겹침 효과의 상한), 회전량 중앙값 17–24°, 2° 미만 0%. ε 0.1 rad(간격 20°)에서는 0.1–3.5개로 무너짐 — 정책이 0.2 rad 안에만 맞추도록 배웠다는 정밀도 한계이지 겹침 때문이 아님. 결론: goal 수는 대부분 실제 회전이고, 겹침이 부풀린 몫은 정책에 따라 0–21%. 본 실험은 겹침이 없는 정의(최소 간격 > 2ε)로 학습·평가함.
 - 2026-11-21: 평가용 고정 goal 순서 추가(`AxisReorientCommandCfg.sequence_seed`): 환경 i의 k번째 goal이 정책이 언제 앞 goal을 맞췄는지와 무관하게 seed로 정해짐. 학습에는 쓰지 않음(기본값 None, 기존 동작 그대로). 확인: 같은 정책을 flat과 crowned에서 평가할 때 env 0의 goal 순서가 같음.

diff --git a/report/study2/study2_redesign.md b/report/study2/study2_redesign.md
@@ -1,6 +1,6 @@
-# Study 2: 더 두꺼운 접촉면으로 다시 설계할 때 접촉면의 운동을 지킬 수 있는가
+# Study 2: 더 두꺼운 접촉면으로 다시 설계할 때 relative contact trajectory를 지킬 수 있는가
 
-작성: 2026-11-21. 질문: 손가락을 더 두꺼운 contact interface에 맞춰 다시 설계해야 할 때, 접촉면에서 본 운동(contact-centric kinematics)을 얼마나 지킬 수 있는가. coverage도 함께 본다(SSoT A.6.3).
+작성: 2026-11-21. 질문: 손가락을 더 두꺼운 contact interface에 맞춰 다시 설계해야 할 때, relative contact trajectory를 얼마나 지킬 수 있는가. coverage도 함께 본다(SSoT A.6.3).
 
 ## 방법
 
@@ -8,7 +8,7 @@
 |---|---|
 | 기준 손가락 | 구조와 q_req마다 Study 1의 3 mm 설계. Study 1은 2026-11-21에 CFL 조건을 이웃 두께에서 다시 탐색했고, 기준은 조건마다 독립 run과 재탐색 중 최선이다 |
 | 탐색 | 5/7/9 mm마다 NSGA-II 200 × 200, seed 0–1 |
-| 목적 1 | 기준 대비 접촉면 운동의 변화 D_c(distal 접촉면 경로를 proximal 접촉면에서 봄)를 최소화 |
+| 목적 1 | 기준 대비 relative contact trajectory의 변화 D_c(distal 접촉면 경로를 proximal 접촉면에서 봄)를 최소화 |
 | 목적 2 | 그 두께의 Study 1 목표 아래에서 C̄_pad를 최대화 |
 | 하한 | 두지 않음 |
 | 비교 기준 | 고정축 관절이 보여야 하는 변화 2 sin(q_req/2)·Δh (Study 0의 P4) |
@@ -18,7 +18,7 @@
 
 ## 결과
 
-아래 표의 칸은 접촉면 운동의 변화 / 다시 설계한 손가락의 C̄_pad (괄호: 이 탐색 시점의 Study 1 최선)이다. Study 1은 이 결과를 받아 한 번 더 탐색했다. 최종 Study 1 값(`report/study1/study1_thickness_coverage.md`)과 아래 C̄_pad의 차이는 CFL에서 0.2 %p, CFL ideal에서 0.5 %p 이내다.
+아래 표의 칸은 relative contact trajectory의 변화 / 다시 설계한 손가락의 C̄_pad (괄호: 이 탐색 시점의 Study 1 최선)이다. Study 1은 이 결과를 받아 한 번 더 탐색했다. 최종 Study 1 값(`report/study1/study1_thickness_coverage.md`)과 아래 C̄_pad의 차이는 CFL에서 0.2 %p, CFL ideal에서 0.5 %p 이내다.
 
 | 구조 | q_req | 3→5 mm | 3→7 mm | 3→9 mm |
 |---|---|---|---|---|
@@ -50,7 +50,7 @@
 
 ## 읽는 법
 
-1. **CFL은 다시 설계해도 접촉면의 운동을 가장 적게 바꾼다.** 이것은 q_req 셋과 두께 셋 모두에서 실제 구조 넷 가운데 성립한다.
+1. **CFL은 다시 설계해도 relative contact trajectory를 가장 적게 바꾼다.** 이것은 q_req 셋과 두께 셋 모두에서 실제 구조 넷 가운데 성립한다.
    - 변화는 0.35–4.31 mm로, 고정축 기준의 10–51%다(q120에서 10–22%, q150에서 20–31%, q90에서 32–51%).
    - 이 차이는 coverage를 내주고 얻은 것이 아니다. 같은 설계의 C̄_pad가 최종 Study 1 최선과 0.2 %p 이내다.
 2. **2R-remote의 변화는 정확히 고정축 기준이다**(q90, q120). 관절이 pad 두께와 함께 움직일 수 없으므로 Study 0의 하한에 그대로 걸린다. q150의 7/9 mm에서는 기준보다 크다. 그 설계들은 접촉하지 못하는 퇴화한 설계다(C̄_pad 0.209, 0).
@@ -65,4 +65,4 @@
 - Study 1이 5 mm 재탐색 결과를 읽지 못한 폴더 이름 오류.
 - Study 1 탐색의 부족.
 
-둘을 고치고 Study 2의 설계에서 Study 1을 한 번 더 탐색했다. 이제 Study 1의 모든 CFL 칸이 이 front의 최선 이상이다(q90 5 mm 0.778). 위 결론, 곧 접촉면 운동의 변화와 그 coverage는 기준 손가락(3 mm)이 바뀌지 않았으므로 그대로다.
+둘을 고치고 Study 2의 설계에서 Study 1을 한 번 더 탐색했다. 이제 Study 1의 모든 CFL 칸이 이 front의 최선 이상이다(q90 5 mm 0.778). 위 결론, 곧 relative contact trajectory의 변화와 그 coverage는 기준 손가락(3 mm)이 바뀌지 않았으므로 그대로다.

diff --git a/design/SSoT/code_formulation.md b/design/SSoT/code_formulation.md
@@ -59,7 +59,7 @@
 | `scripts/study/study1_thickness_coverage/run_all.sh`, `figure.py` | Study 1: 두께 × 요구 flexion마다 native 탐색(`scripts/optimize/run.py`), 결과 표와 그림 | A.6.2 |
 | `core/geometry/pole.py` | Finite pole(`pole`), 임의의 pole에서 두 직사각형의 정확한 clearance(`rectangular_clearance`, 명제 1), 대칭 clearance 법칙(`symmetric_gap_law`, 명제 2) | A.6.0 |
 | `scripts/study/study2_morphology_adaptation/pole_law.py` | Study 0과 Study 1 설계의 대조: 설계의 pad의 정확한 clearance(`least_clearance`), 대칭 법칙의 추정(`symmetric_gap`), 긴 pad의 고른 배치의 최소 간격(`least_gap_long_pads`), coverage(`coverage_law`), 고정한 손가락의 첫 접촉 | A.6.0, A.6.2 |
-| `optimization/analysis/contact_kinematics.py` | 접촉면에서 본 운동(`contact_path`), 그 변화 $D_c$(`path_change`), 두 목적($D_c$, $\bar C_{\mathrm{pad}}$)의 다시 설계 탐색(`ContactMechanism`, `redesign`) | A.6.3 |
+| `optimization/analysis/contact_kinematics.py` | relative contact trajectory(`contact_path`), 그 변화 $D_c$(`path_change`), 두 목적($D_c$, $\bar C_{\mathrm{pad}}$)의 다시 설계 탐색(`ContactMechanism`, `redesign`) | A.6.3 |
 | `scripts/study/study2_morphology_adaptation/redesign.py`, `figure_redesign.py` | Study 2 driver(기준 손가락, 두께별 front, 요약)와 그림 | A.6.3 |
 | `optimization/analysis/one_finger.py`, `scripts/study/study2_morphology_adaptation/one_finger.py` | 고정한 손가락에 다른 두께의 pad를 다는 것(`fitted`, `mount`)과 Study 1 설계를 읽는 것(`study1_designs`). 손가락 하나 탐색(`one_finger`)은 2026-11-20 정의에서 빠짐 | A.6.0의 대조 |
 | `scripts/study/study2_morphology_adaptation/landscape.py` | (이전 정의) 최소 변화 landscape. 쓰지 않음 | — |
